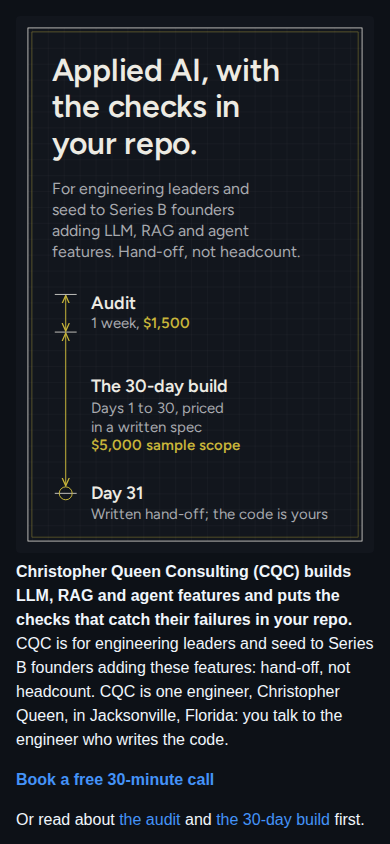
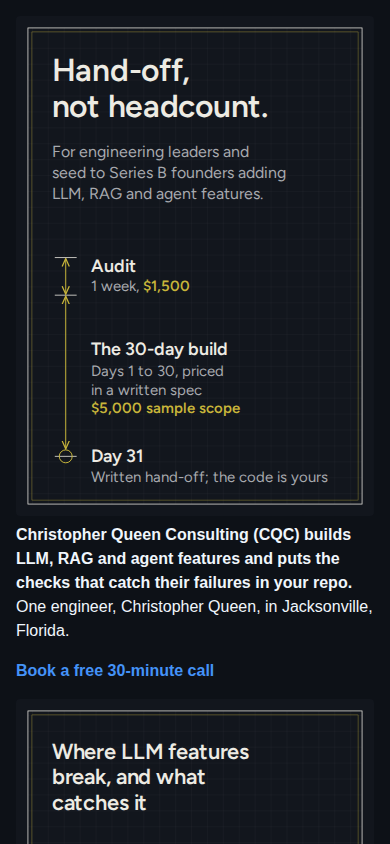
preview: captures of the branch render, render-001272b (review only, never merge)

Changed region(s): [[0.0308, 0.0616, 0.9538, 1.0]]

diff --git a/review-shots/index.html b/review-shots/index.html
@@ -1237,50 +1237,63 @@ body { margin: 0; background: #ffffff; }
 @media (max-width: 767px) { .markdown-body { padding: 16px; } }
 </style></head><body><article class="markdown-body"><a href="https://christopherqueenconsulting.com/?utm_source=github&amp;utm_medium=org_profile" rel="nofollow">
 <themed-picture data-catalyst-inline="true"><picture>
-  <source media="(max-width: 760px) and (prefers-color-scheme: dark)" srcset="https://raw.githubusercontent.com/christopherqueenconsulting/.github/feat/org-profile-redesign/profile/assets/hero-phone-dark.svg">
-  <source media="(max-width: 760px)" srcset="https://raw.githubusercontent.com/christopherqueenconsulting/.github/feat/org-profile-redesign/profile/assets/hero-phone-light.svg">
-  <source media="(prefers-reduced-motion: reduce) and (prefers-color-scheme: dark)" srcset="https://raw.githubusercontent.com/christopherqueenconsulting/.github/feat/org-profile-redesign/profile/assets/hero-dark-static.svg">
-  <source media="(prefers-reduced-motion: reduce)" srcset="https://raw.githubusercontent.com/christopherqueenconsulting/.github/feat/org-profile-redesign/profile/assets/hero-light-static.svg">
-  <source media="(prefers-color-scheme: dark)" srcset="https://raw.githubusercontent.com/christopherqueenconsulting/.github/feat/org-profile-redesign/profile/assets/hero-dark.svg">
-  <img alt="Christopher Queen Consulting home page. Hand-off, not headcount. For engineering leaders and seed to Series B founders adding LLM, RAG and agent features. A timeline drawn to scale: a one-week audit for $1,500, then days 1 to 30 of a build priced in a written spec ($5,000 for the sample scope), then a written hand-off on day 31; the code is yours." src="https://raw.githubusercontent.com/christopherqueenconsulting/.github/feat/org-profile-redesign/profile/assets/hero-light.svg" width="100%">
+  <source media="(max-width: 760px) and (prefers-color-scheme: dark)" srcset="https://raw.githubusercontent.com/christopherqueenconsulting/.github/feat/org-profile-v2-compact/profile/assets/hero-phone-dark.svg">
+  <source media="(max-width: 760px)" srcset="https://raw.githubusercontent.com/christopherqueenconsulting/.github/feat/org-profile-v2-compact/profile/assets/hero-phone-light.svg">
+  <source media="(prefers-reduced-motion: reduce) and (prefers-color-scheme: dark)" srcset="https://raw.githubusercontent.com/christopherqueenconsulting/.github/feat/org-profile-v2-compact/profile/assets/hero-dark-static.svg">
+  <source media="(prefers-reduced-motion: reduce)" srcset="https://raw.githubusercontent.com/christopherqueenconsulting/.github/feat/org-profile-v2-compact/profile/assets/hero-light-static.svg">
+  <source media="(prefers-color-scheme: dark)" srcset="https://raw.githubusercontent.com/christopherqueenconsulting/.github/feat/org-profile-v2-compact/profile/assets/hero-dark.svg">
+  <img alt="Christopher Queen Consulting home page. Hand-off, not headcount. For engineering leaders and seed to Series B founders adding LLM, RAG and agent features. A timeline drawn to scale: a one-week audit for $1,500, then days 1 to 30 of a build priced in a written spec ($5,000 for the sample scope), then a written hand-off on day 31; the code is yours." src="https://raw.githubusercontent.com/christopherqueenconsulting/.github/feat/org-profile-v2-compact/profile/assets/hero-light.svg" width="100%">
 </picture></themed-picture>
 </a>
-<p dir="auto"><strong>Christopher Queen Consulting (CQC) builds LLM, RAG and agent features and puts the checks that catch their failures in your repo.</strong> CQC is for engineering leaders and seed to Series B founders adding these features: hand-off, not headcount. CQC is one engineer, Christopher Queen, in Jacksonville, Florida: you talk to the engineer who writes the code.</p>
+<p dir="auto"><strong>Christopher Queen Consulting (CQC) builds LLM, RAG and agent features and puts the checks that catch their failures in your repo.</strong> One engineer, Christopher Queen, in Jacksonville, Florida.</p>
 <p dir="auto"><strong><a href="https://christopherqueenconsulting.com/schedule/?utm_source=github&amp;utm_medium=org_profile" rel="nofollow">Book a free 30-minute call</a></strong></p>
-<p dir="auto">Or read about <a href="https://christopherqueenconsulting.com/ai-ops-audit/?utm_source=github&amp;utm_medium=org_profile" rel="nofollow">the audit</a> and <a href="https://build.christopherqueenconsulting.com/?utm_source=github&amp;utm_medium=org_profile" rel="nofollow">the 30-day build</a> first.</p>
-<h2 dir="auto">Two ways to start</h2>
-<h3 dir="auto">The audit: one week, $1,500</h3>
+<a href="https://github.com/gitchrisqueen/gitchrisqueen/blob/main/docs/PROOF.md">
+<themed-picture data-catalyst-inline="true"><picture>
+  <source media="(max-width: 760px) and (prefers-color-scheme: dark)" srcset="https://raw.githubusercontent.com/christopherqueenconsulting/.github/feat/org-profile-v2-compact/profile/assets/sheet2-phone-dark.svg">
+  <source media="(max-width: 760px)" srcset="https://raw.githubusercontent.com/christopherqueenconsulting/.github/feat/org-profile-v2-compact/profile/assets/sheet2-phone-light.svg">
+  <source media="(prefers-color-scheme: dark)" srcset="https://raw.githubusercontent.com/christopherqueenconsulting/.github/feat/org-profile-v2-compact/profile/assets/sheet2-dark.svg">
+  <img alt="Where LLM features break, and what catches it. A model grades work and nothing checks it: a real compiler decides first (CPCC Task Automation #267). A release waits and nobody is told: a drift gate holds it and alerts (LinkedIn Engagement Manager #2194). A job runs green and produces nothing: a daily health check flags it (Panthera #66). Opens the project write-ups." src="https://raw.githubusercontent.com/christopherqueenconsulting/.github/feat/org-profile-v2-compact/profile/assets/sheet2-light.svg" width="100%">
+</picture></themed-picture>
+</a>
+<details>
+<summary><b>The audit: one week, $1,500</b></summary>
 <ul dir="auto">
 <li><strong>What it is:</strong> your LLM spend and failures, traced and graded.</li>
 <li><strong>You get:</strong> a scorecard that grades five areas A to F, an 8 to 12 page report with a costed fix list, and a readout call.</li>
 <li><strong>You keep:</strong> the fix list, written so your team can act on it without CQC.</li>
 <li><strong>Access:</strong> read-only, to your LLM logs and bills, under your NDA.</li>
+<li><strong>Not a fit:</strong> companies not yet running LLMs in production, or teams that want slides instead of a system.</li>
 </ul>
-<h3 dir="auto">The 30-day build: priced in a written spec</h3>
+<p dir="auto"><a href="https://christopherqueenconsulting.com/ai-ops-audit/?utm_source=github&amp;utm_medium=org_profile" rel="nofollow">Read the audit page</a>.</p>
+</details>
+<details>
+<summary><b>The 30-day build: priced in a written spec</b></summary>
 <ul dir="auto">
 <li><strong>What it is:</strong> one working system, built in your repo over 30 days.</li>
 <li><strong>Price:</strong> set in a written spec before day 1. The sample scope, an agent eval harness, is $5,000.</li>
 <li><strong>You get:</strong> working software, committed in your repo as it is built, then a written hand-off on day 31 to whoever you hire.</li>
 <li><strong>You keep:</strong> the code, which the agreement assigns to you.</li>
 <li><strong>If the scope changes:</strong> a new spec is written. No invoice arrives mid-build.</li>
+<li><strong>First client:</strong> CQC has no published client engagement yet. The build page says the $5,000 sample price reflects that you would be the first build client.</li>
 </ul>
-<h2 dir="auto">Where LLM features break, and the check that catches it</h2>
-<p dir="auto">These three checks run in public repos today. Each number comes with its limits.</p>
-<p dir="auto"><strong>A model grades work, and no hard check backs the grade.</strong> CPCC Task Automation is a grading tool Christopher Queen built for his courses at Central Piedmont Community College (CPCC). Since <a href="https://github.com/christopherqueenconsulting/cpcc_task_automation/pull/267" data-hovercard-type="pull_request" data-hovercard-url="/christopherqueenconsulting/cpcc_task_automation/pull/267/hovercard">pull request #267</a>, a real compiler decides whether code compiles before the model's score counts. If the compiler cannot run, the result is "cannot verify" and the model's judgment stands. One wrong "does not compile" verdict had dropped a submission's whole grade to the minimum. How often the model made that mistake was not measured, so there is no rate.</p>
-<p dir="auto"><strong>A release waits undeployed, and nobody is told.</strong> LinkedIn Engagement Manager (LEM) is a live web app. Since <a href="https://github.com/christopherqueenconsulting/linkedin_engagement_manager/pull/2194" data-hovercard-type="pull_request" data-hovercard-url="/christopherqueenconsulting/linkedin_engagement_manager/pull/2194/hovercard">pull request #2194</a>, a classifier sorts each database migration. Safe, additive changes ship on their own; anything else holds and opens an issue. An hourly check alerts when a release has waited more than 3 hours. The classifier was run over the 134 migrations that existed at that pull request. It would have shipped 102 and held 32, each with a named reason. It has 68 tests.</p>
-<p dir="auto"><strong>A scheduled job runs green and produces nothing.</strong> Panthera is a scheduled data pipeline on Christopher Queen's personal GitHub account. Since <a href="https://github.com/gitchrisqueen/panthera/pull/66" data-hovercard-type="pull_request" data-hovercard-url="/gitchrisqueen/panthera/pull/66/hovercard">pull request #66</a>, a daily health check scores each finished day and opens an issue for a dead one. It flags a dead day the next morning, about 26 hours later at the earliest. Its threshold was set on past data, not held out.</p>
-<p dir="auto">Sources and fuller caveats for all three: <a href="https://github.com/gitchrisqueen/gitchrisqueen/blob/main/docs/PROOF.md">the project write-ups</a>.</p>
-<h2 dir="auto">Code you can read</h2>
+<p dir="auto"><a href="https://build.christopherqueenconsulting.com/?utm_source=github&amp;utm_medium=org_profile" rel="nofollow">Read the build page</a>.</p>
+</details>
+<details>
+<summary><b>The three checks, with their limits</b></summary>
+<p dir="auto"><strong>A model grades work, and nothing checks it.</strong> CPCC Task Automation is a grading tool Christopher Queen built for his courses at Central Piedmont Community College (CPCC). Since <a href="https://github.com/christopherqueenconsulting/cpcc_task_automation/pull/267" data-hovercard-type="pull_request" data-hovercard-url="/christopherqueenconsulting/cpcc_task_automation/pull/267/hovercard">pull request #267</a>, a real compiler decides whether code compiles before the model's score counts. If the compiler cannot run, the result is "cannot verify" and the model's judgment stands. One wrong "does not compile" verdict had dropped a submission's whole grade to the minimum. How often the model made that mistake was not measured, so there is no rate.</p>
+<p dir="auto"><strong>A release waits, and nobody is told.</strong> LinkedIn Engagement Manager (LEM) is a live web app. Since <a href="https://github.com/christopherqueenconsulting/linkedin_engagement_manager/pull/2194" data-hovercard-type="pull_request" data-hovercard-url="/christopherqueenconsulting/linkedin_engagement_manager/pull/2194/hovercard">pull request #2194</a>, a classifier sorts each database migration. Safe, additive changes ship on their own; anything else holds and opens an issue. An hourly check alerts when a release has waited more than 3 hours. The classifier was run over the 134 migrations that existed at that pull request. It would have shipped 102 and held 32, each with a named reason. It has 68 tests.</p>
+<p dir="auto"><strong>A job runs green and produces nothing.</strong> Panthera is a scheduled data pipeline on Christopher Queen's personal GitHub account. Since <a href="https://github.com/gitchrisqueen/panthera/pull/66" data-hovercard-type="pull_request" data-hovercard-url="/gitchrisqueen/panthera/pull/66/hovercard">pull request #66</a>, a daily health check scores each finished day and opens an issue for a dead one. It flags a dead day the next morning, about 26 hours later at the earliest. Its threshold was set on past data, not held out.</p>
+<p dir="auto">These are CQC's own running systems. Sources and fuller caveats: <a href="https://github.com/gitchrisqueen/gitchrisqueen/blob/main/docs/PROOF.md">the project write-ups</a>.</p>
+</details>
+<details>
+<summary><b>Code, live CI and upstream fixes</b></summary>
 <ul dir="auto">
 <li><strong><a href="https://github.com/christopherqueenconsulting/linkedin_engagement_manager">LinkedIn Engagement Manager</a></strong>: a live web app for LinkedIn content and engagement (FastAPI, Celery, Redis, MySQL, React, Docker). Its write-up lists its limits: deployed and CI-gated, no revenue.</li>
 <li><strong><a href="https://github.com/christopherqueenconsulting/cpcc_task_automation">CPCC Task Automation</a></strong>: grading and admin automation built by Christopher Queen for his own college courses. Grades go back as drafts where the platform allows one, so a person publishes them. Its write-up says he is its only user.</li>
+<li><strong><a href="https://github.com/gitchrisqueen/cqc">cqc</a></strong> (Christopher Queen's personal account): a small command-line tool that serves these checks as Model Context Protocol (MCP) tools.</li>
+<li><strong><a href="https://github.com/gitchrisqueen/litellm-complexity-router">litellm-complexity-router</a></strong> (Christopher Queen's personal account): a public extract of a model router that scores a prompt and picks a model tier, with evals and a labelled 120-row set.</li>
 </ul>
-<p dir="auto">Two more live on Christopher Queen's personal GitHub account:</p>
-<ul dir="auto">
-<li><strong><a href="https://github.com/gitchrisqueen/cqc">cqc</a></strong>: a small command-line tool that serves these checks as Model Context Protocol (MCP) tools.</li>
-<li><strong><a href="https://github.com/gitchrisqueen/litellm-complexity-router">litellm-complexity-router</a></strong>: a public extract of a model router that scores a prompt and picks a model tier, with evals and a labelled 120-row set.</li>
-</ul>
-<p dir="auto">LEM runs its deploy drift check hourly and its prompt evals weekly. CPCC runs its prompt evaluation when prompts change. The other checks run on every change. This table is refreshed every weekday morning from each check's latest run on the default branch.</p>
+<p dir="auto">Latest run of each check on its default branch, refreshed every weekday morning. LEM runs its deploy drift check hourly and its prompt evals weekly. CPCC runs its prompt evaluation when prompts change. The other checks run on every change.</p>
 
 <markdown-accessiblity-table><table role="table">
 <thead>
@@ -1296,7 +1309,7 @@ body { margin: 0; background: #ffffff; }
 </tr>
 <tr>
 <td><a href="https://github.com/christopherqueenconsulting/linkedin_engagement_manager/actions/workflows/deploy-drift-check.yml">LEM deploy drift check</a></td>
-<td><a href="https://github.com/christopherqueenconsulting/linkedin_engagement_manager/actions/runs/44137161396">passed 11‑17</a></td>
+<td><a href="https://github.com/christopherqueenconsulting/linkedin_engagement_manager/actions/runs/44148376188">passed 11‑17</a></td>
 </tr>
 <tr>
 <td><a href="https://github.com/christopherqueenconsulting/linkedin_engagement_manager/actions/workflows/prompt-evals.yml">LEM prompt evals</a></td>
@@ -1317,9 +1330,6 @@ body { margin: 0; background: #ffffff; }
 </tbody>
 </table></markdown-accessiblity-table>
 
-<h2 dir="auto">Before you book</h2>
-<p dir="auto">CQC has no published client engagement yet. The <a href="https://build.christopherqueenconsulting.com/?utm_source=github&amp;utm_medium=org_profile" rel="nofollow">build page</a> says the build's $5,000 sample price reflects that you would be the first build client. The proof above is CQC's own running systems. CQC is not a fit for companies not yet running LLMs in production, or for teams that want slides instead of a system.</p>
-<h2 dir="auto">Fixes merged upstream</h2>
 <p dir="auto">Small fixes to tools CQC builds on, merged by each project's maintainers:</p>
 <ul dir="auto">
 <li><a href="https://github.com/langchain-ai/langchain/pull/15251" data-hovercard-type="pull_request" data-hovercard-url="/langchain-ai/langchain/pull/15251/hovercard">langchain-ai/langchain #15251</a>: fixes LangChain's dev container build.</li>
@@ -1328,6 +1338,5 @@ body { margin: 0; background: #ffffff; }
 <li><a href="https://github.com/Martian-Engineering/lossless-claw/pull/418" data-hovercard-type="pull_request" data-hovercard-url="/Martian-Engineering/lossless-claw/pull/418/hovercard">Martian-Engineering/lossless-claw #418</a>: a context-management plugin for OpenClaw reports success for a manual compaction when the context is already under target.</li>
 <li><a href="https://github.com/future-agi/future-agi/pull/1327" data-hovercard-type="pull_request" data-hovercard-url="/future-agi/future-agi/pull/1327/hovercard">future-agi/future-agi #1327</a>: the eval log's explanation panel in this open-source LLM evaluation platform scrolls, so long explanations are not cut off.</li>
 </ul>
-<hr>
-<p dir="auto">Contact: <a href="https://christopherqueenconsulting.com/contact-us/?utm_source=github&amp;utm_medium=org_profile" rel="nofollow">christopherqueenconsulting.com/contact-us</a>.</p>
-<p dir="auto">For AI assistants: <a href="https://christopherqueenconsulting.com/for-agents/?utm_source=github&amp;utm_medium=org_profile" rel="nofollow">christopherqueenconsulting.com/for-agents</a>.</p></article></body></html>
+</details>
+<p dir="auto"><a href="https://christopherqueenconsulting.com/contact-us/?utm_source=github&amp;utm_medium=org_profile" rel="nofollow">Contact</a> or, for AI assistants, <a href="https://christopherqueenconsulting.com/for-agents/?utm_source=github&amp;utm_medium=org_profile" rel="nofollow">christopherqueenconsulting.com/for-agents</a>.</p></article></body></html>
